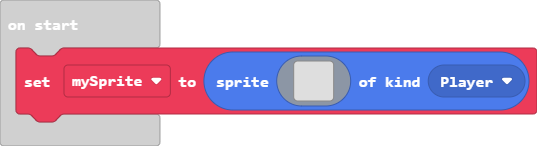
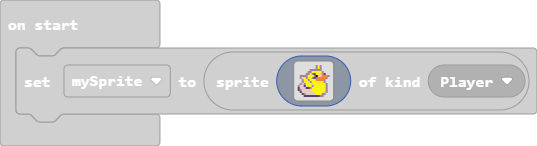
Update main.blocks, main.ts

diff --git a/main.ts b/main.ts
@@ -1,18 +1,18 @@
 let mySprite = sprites.create(img`
-    . . . . . . . . . . . . . . . . 
-    . . . . . . . . . . . . . . . . 
-    . . . . . . . . . . . . . . . . 
-    . . . . . . . . . . . . . . . . 
-    . . . . . . . . . . . . . . . . 
-    . . . . . . . . . . . . . . . . 
-    . . . . . . . . . . . . . . . . 
-    . . . . . . . . . . . . . . . . 
-    . . . . . . . . . . . . . . . . 
-    . . . . . . . . . . . . . . . . 
-    . . . . . . . . . . . . . . . . 
-    . . . . . . . . . . . . . . . . 
-    . . . . . . . . . . . . . . . . 
-    . . . . . . . . . . . . . . . . 
-    . . . . . . . . . . . . . . . . 
-    . . . . . . . . . . . . . . . . 
+    . . . . . . . . . b 5 b . . . . 
+    . . . . . . . . . b 5 b . . . . 
+    . . . . . . b b b b b b . . . . 
+    . . . . . b b 5 5 5 5 5 b . . . 
+    . . . . b b 5 b c 5 5 d 4 c . . 
+    . b b b b 5 5 5 b f d d 4 4 4 b 
+    . b d 5 b 5 5 b c b 4 4 4 4 b . 
+    . . b 5 5 b 5 5 5 4 4 4 4 b . . 
+    . . b d 5 5 b 5 5 5 5 5 5 b . . 
+    . b d b 5 5 5 d 5 5 5 5 5 5 b . 
+    b d d c d 5 5 b 5 5 5 5 5 5 b . 
+    c d d d c c b 5 5 5 5 5 5 5 b . 
+    c b d d d d d 5 5 5 5 5 5 5 b . 
+    . c d d d d d d 5 5 5 5 5 d b . 
+    . . c b d d d d d 5 5 5 b b . . 
+    . . . c c c c c c c c b b . . . 
     `, SpriteKind.Player)
